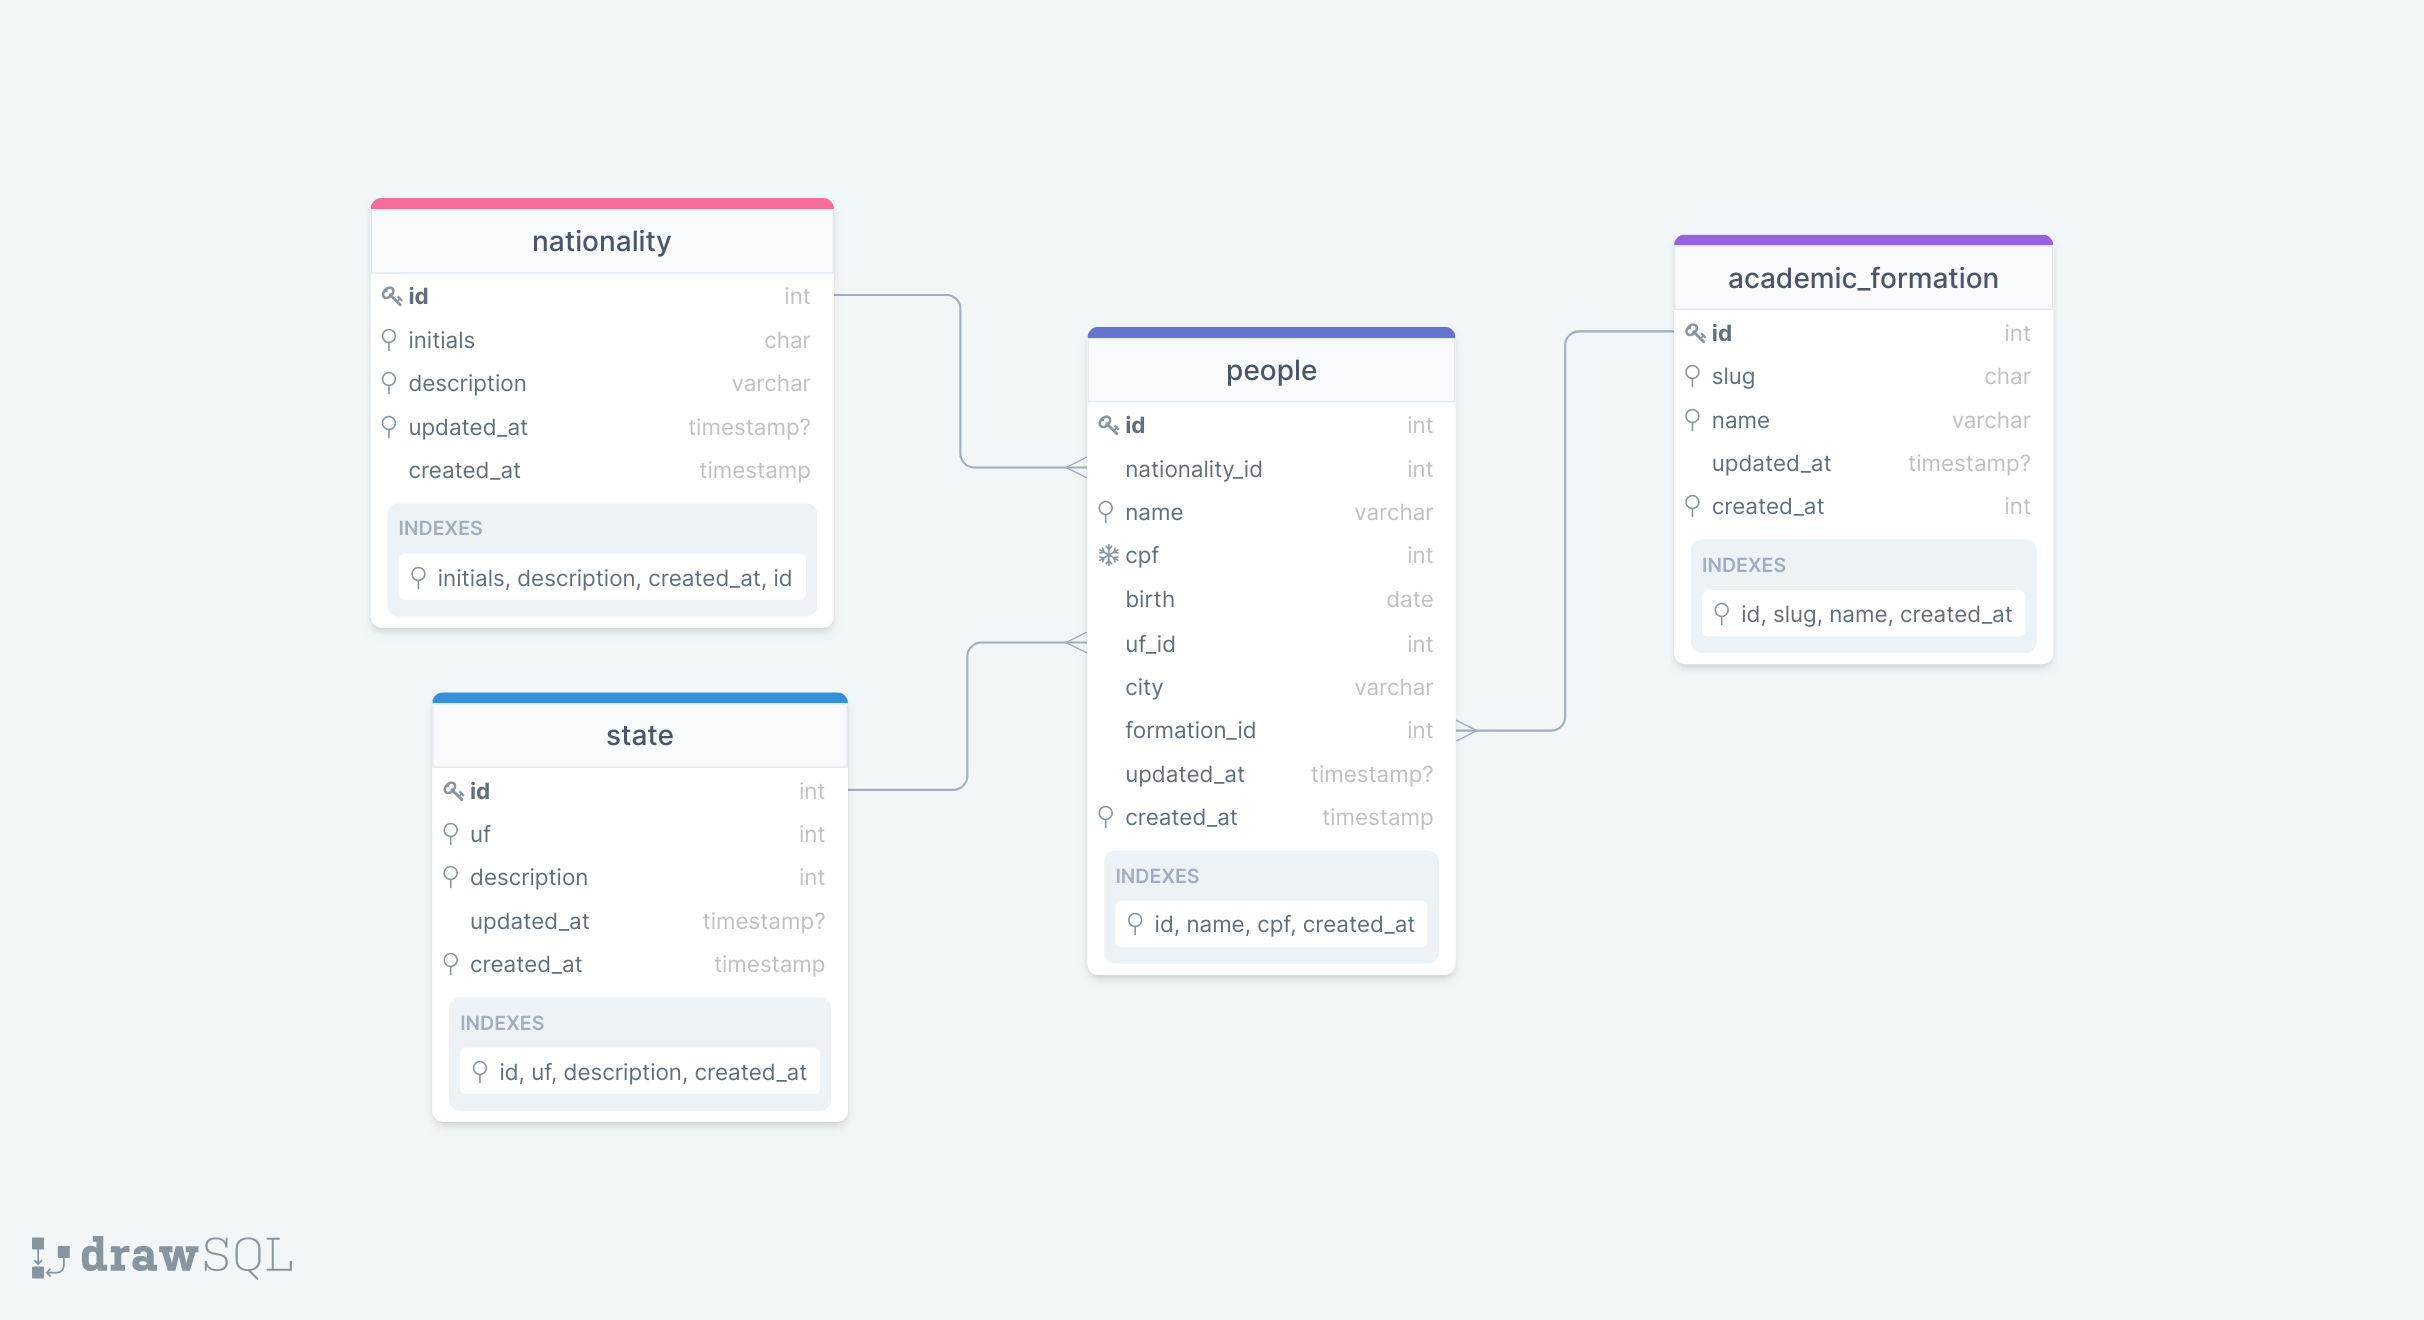
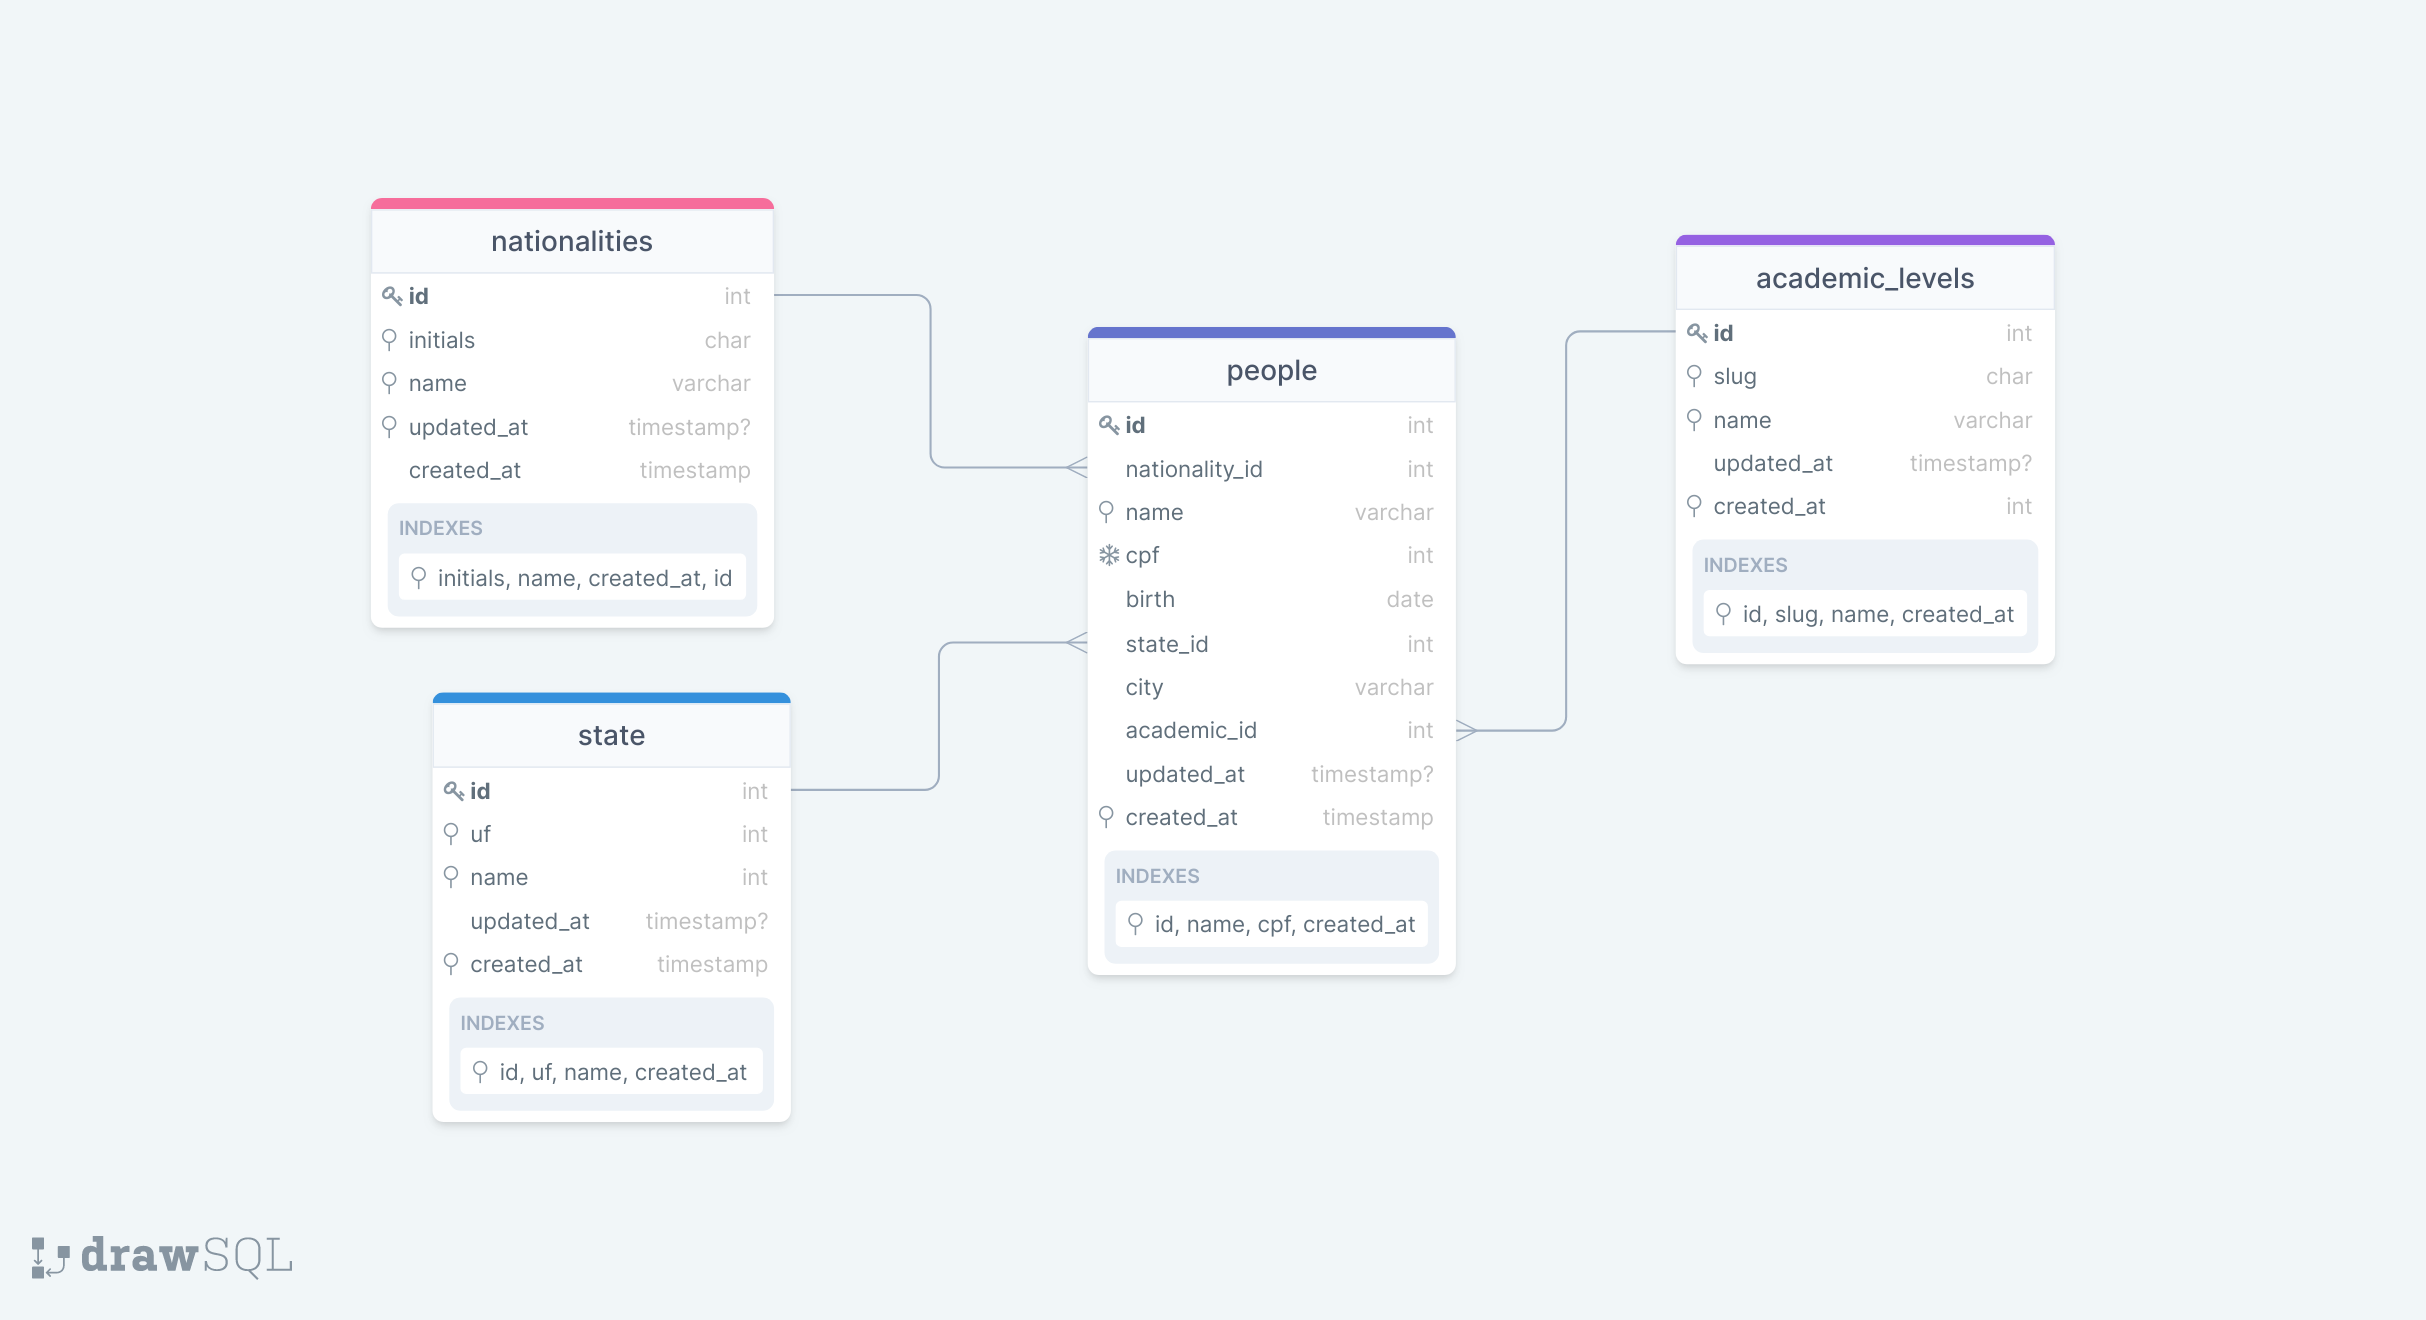
Modificação nas models e readme.

diff --git a/database/migrations/2021_06_21_174637_create_nationalities_table.php b/database/migrations/2021_06_21_174637_create_nationalities_table.php
@@ -16,8 +16,8 @@ class CreateNationalitiesTable extends Migration
         Schema::create('nationalities', function (Blueprint $table) {
             $table->id();
             $table->char('initials', 2)->comment('siglas');
-            $table->string('description', 200);
-            $table->index(['id', 'initials', 'description', 'created_at']);
+            $table->string('name', 200);
+            $table->index(['id', 'initials', 'name', 'created_at']);
             $table->timestamps();
         });
     }

diff --git a/database/migrations/2021_06_21_175952_create_states_table.php b/database/migrations/2021_06_21_175952_create_states_table.php
@@ -16,8 +16,8 @@ class CreateStatesTable extends Migration
         Schema::create('states', function (Blueprint $table) {
             $table->id();
             $table->char('uf', 2);
-            $table->string('description', 200);
-            $table->index(['id', 'uf', 'description']);
+            $table->string('name', 200);
+            $table->index(['id', 'uf', 'name']);
             $table->timestamps();
         });
     }

diff --git a/README.md b/README.md
@@ -2,6 +2,147 @@
 
 > Desafio proposto pela empresa Fiocruz de Brasília, para medir o conhecimento no processo seletivo, para a vaga de Desenvolvedor Backend Laravel Pleno.
 
+## ⚠ Requisitos:
+
+- PHP >= 7.2.5
+- Node.Js >= 12.13.1
+- NPM >= 6.13.4
+- PostgreSQL >= 12.2
+- Docker e Docker Compose (opcional)
+
+##### Deve ter o ambiente para o laravel configurado:
+
+- BCMath PHP Extension
+- Ctype PHP Extension
+- Fileinfo PHP extension
+- JSON PHP Extension
+- Mbstring PHP Extension
+- OpenSSL PHP Extension
+- PDO PHP Extension
+- Tokenizer PHP Extension
+- XML PHP Extension
+
+## Modelagem do Banco de Dados
+
+![modeling](.image/modelagem.png)
+
+## O que foi utilizado no desafio:
+
+- Laravel Framework
+- Bootstrap
+- Jquery
+- DataTables
+- Axios
+- Jquery Validate
+- Block Ui
+- Date Fns
+- Jquery Mask
+- Sweet Alert
+- Docker  
+- PostgreSQL
+
+## ⚡ Mão na massa:
+
+> Você pode realizar o clone deste repositório ou baixar o arquivo .zip!
+
+##### Clone este repositório:
+
+````
+git clone https://github.com/huriellopes/Desafio-BritvicBrasil.git
+````
+
+Para baixar o zip: [https://github.com/huriellopes/Desafio-BritvicBrasil/archive/master.zip](https://github.com/huriellopes/Desafio-BritvicBrasil/archive/main.zip)
+
+## ✔ Executando a aplicação:
+
+##### Na raiz do projeto, execute os comandos:
+
+````
+# Para instalar as dependências do Laravel
+componser install
+```` 
+
+##### Copie e configure as variaveis de ambiente no arquivo .env:
+
+````
+# Para copiar o .env.example para .env
+copy .env.example .env ou cp .env.example .env
+
+# Para gerar a key do projeto
+php artisan key:generate
+
+# configure as seguintes variaveis de ambiente
+DB_CONNECTION=pgsql # default = mysql
+DB_HOST=127.0.0.1 ou db (container do doker)
+DB_PORT=5432 # default = 3306
+DB_DATABASE=laravel
+DB_USERNAME=root
+DB_PASSWORD=
+
+# Atenção: Deve ser PostgreSQL e lembre-se de criar o schema/banco!
+````
+
+#### Caso queira utilizar docker, rode o seguinte comando:
+
+````
+copy docker-compose.example.yml docker-compose.yml ou cp docker-compose.example.yml docker-compose.yml
+````
+
+#### Depois configure as variaveis de ambiente no docker compose
+
+````
+    environment:
+      POSTGRES_USER: "postgres"
+      POSTGRES_PASSWORD: "YOUR_PASSWORD"
+      POSTGRES_DB: "DATABASE_NAME"
+
+    # O banco de dados está isolado, apenas a aplicação acessa!
+````
+
+##### Depois de configurar as variaveis de ambiente, ainda no raiz do projeto, execute os comandos:
+
+````
+# Para rodar as migrates e seeds
+php artisan migrate --seed
+
+# Caso queira desafazer
+php artisan migrate:rollback
+
+# Para rodar o servidor embutido => Caso opte por rodar localmente.
+php artisan serve
+
+# Irá executar na seguinte url, abra no navegador
+http://localhost:8000
+
+> Caso opte por rodar no docker, acesse no navegador:
+http://localhost
+````
+
+> Obs.: Caso opte pelo docker, rode o seguinte comando:
+
+````
+# Para subir os dois containers
+docker-compose up -d
+
+# Depois acesse o container de servidor
+docker exec -it server sh
+
+# Rode o composer
+composer install
+
+# Depois o migrate e seed
+php artisan migrate --seed
+
+# Caso queira desafazer
+php artisan migrate:rollback
+
+Obs.: Depois faça o processo normal. de abrir no navegador.
+````
+
+## Créditos
+
+Empresa FioCruz Brasília - Pelo desafio proposto [Site da Empresa](https://www.fiocruzbrasilia.fiocruz.br/efg/)
+
 ## Licença
 
 > Este projeto está sob a licença MIT. Veja aqui [License](LICENSE)
